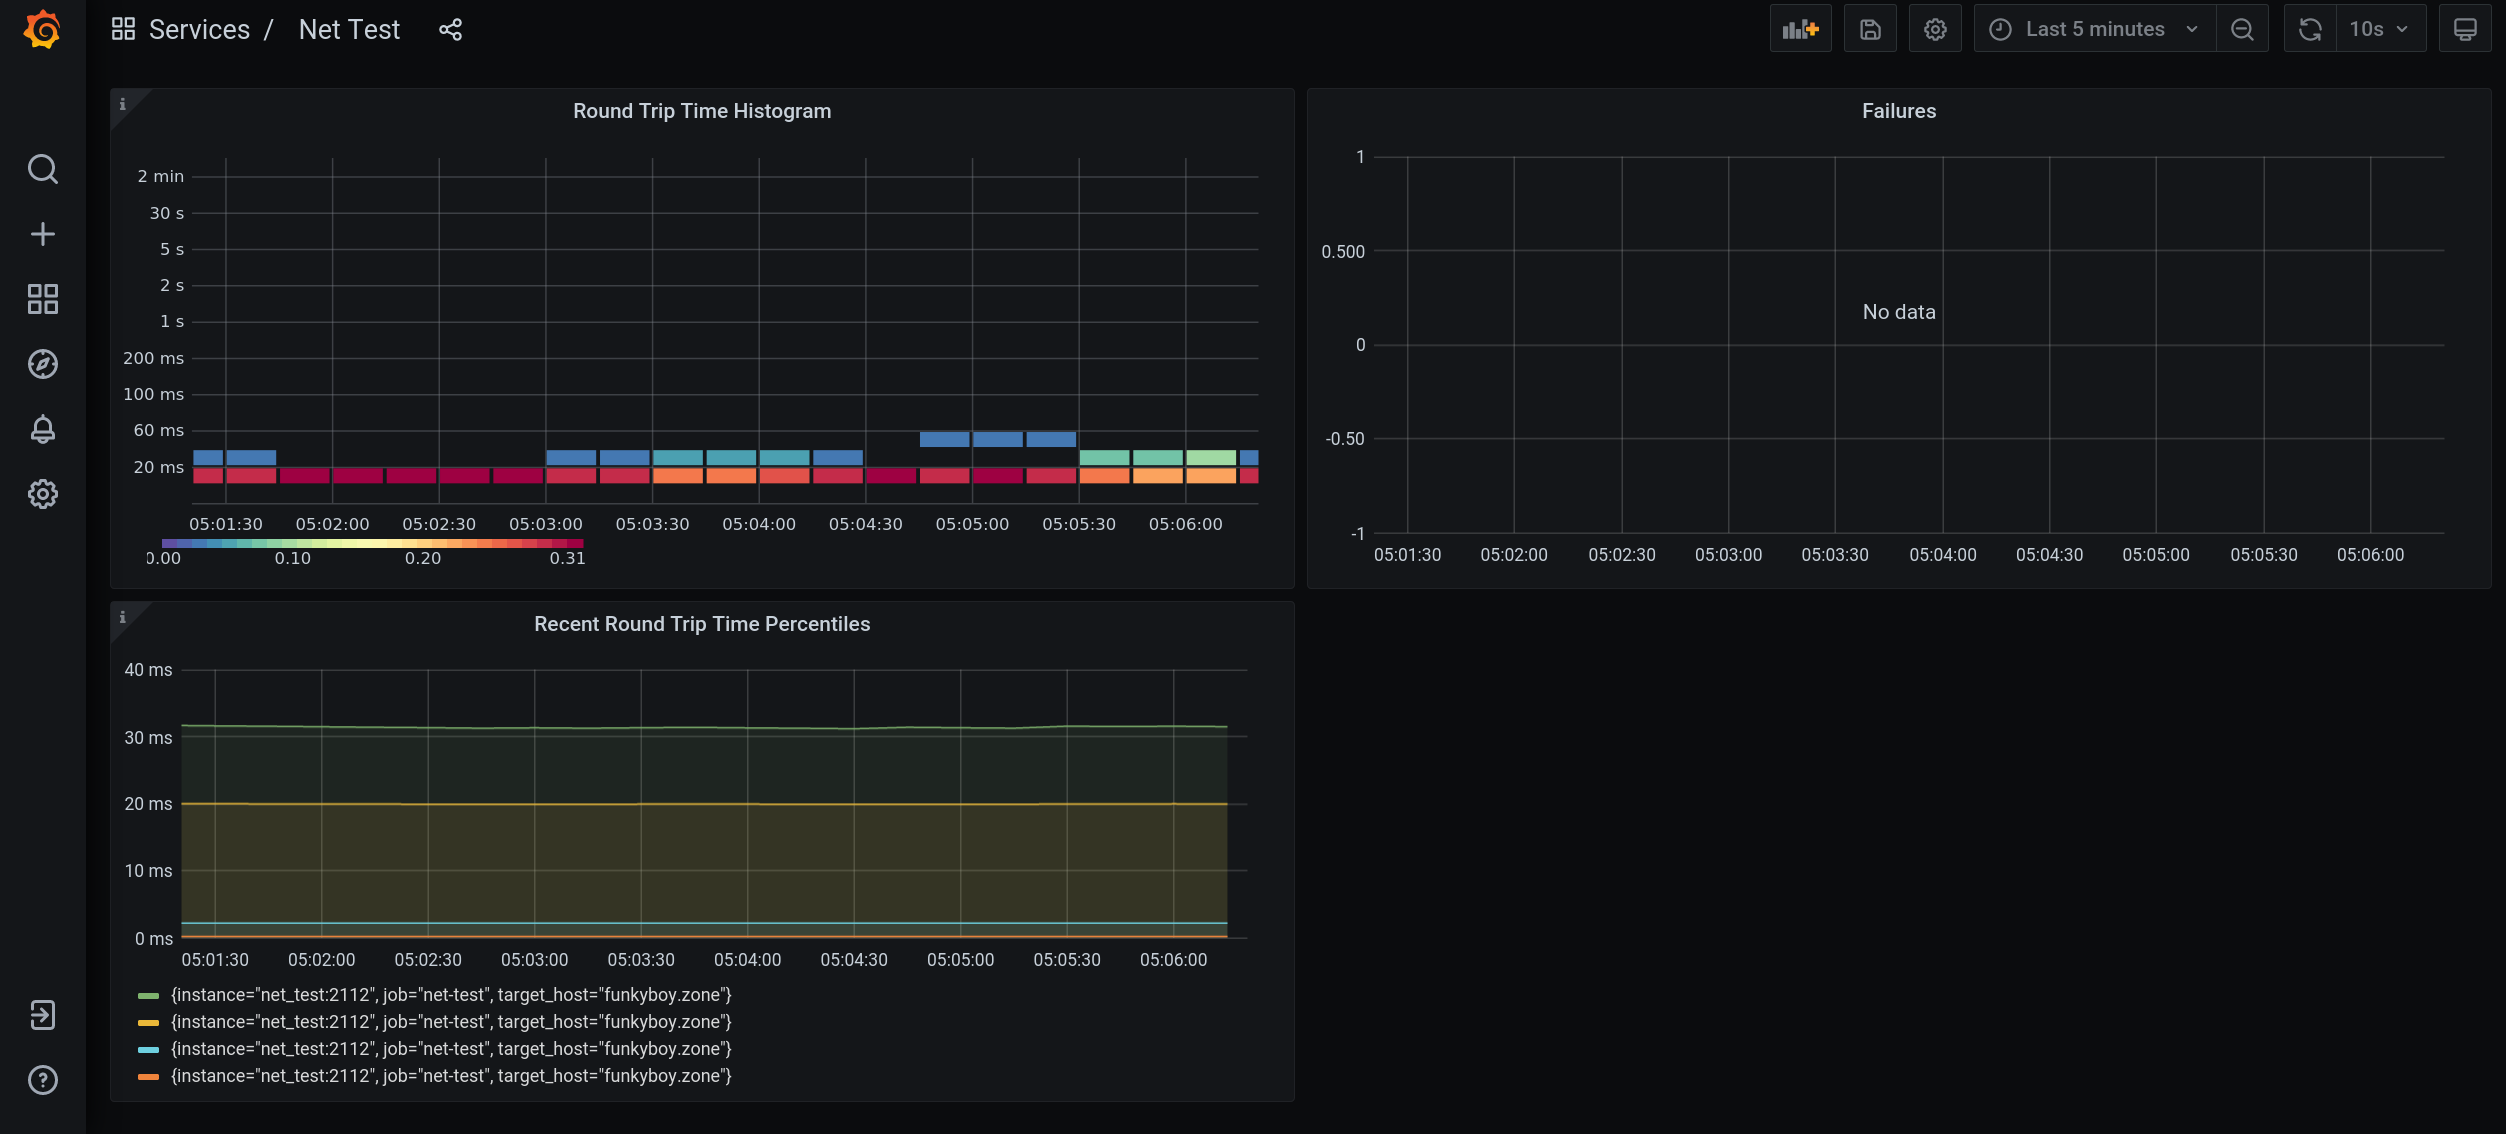
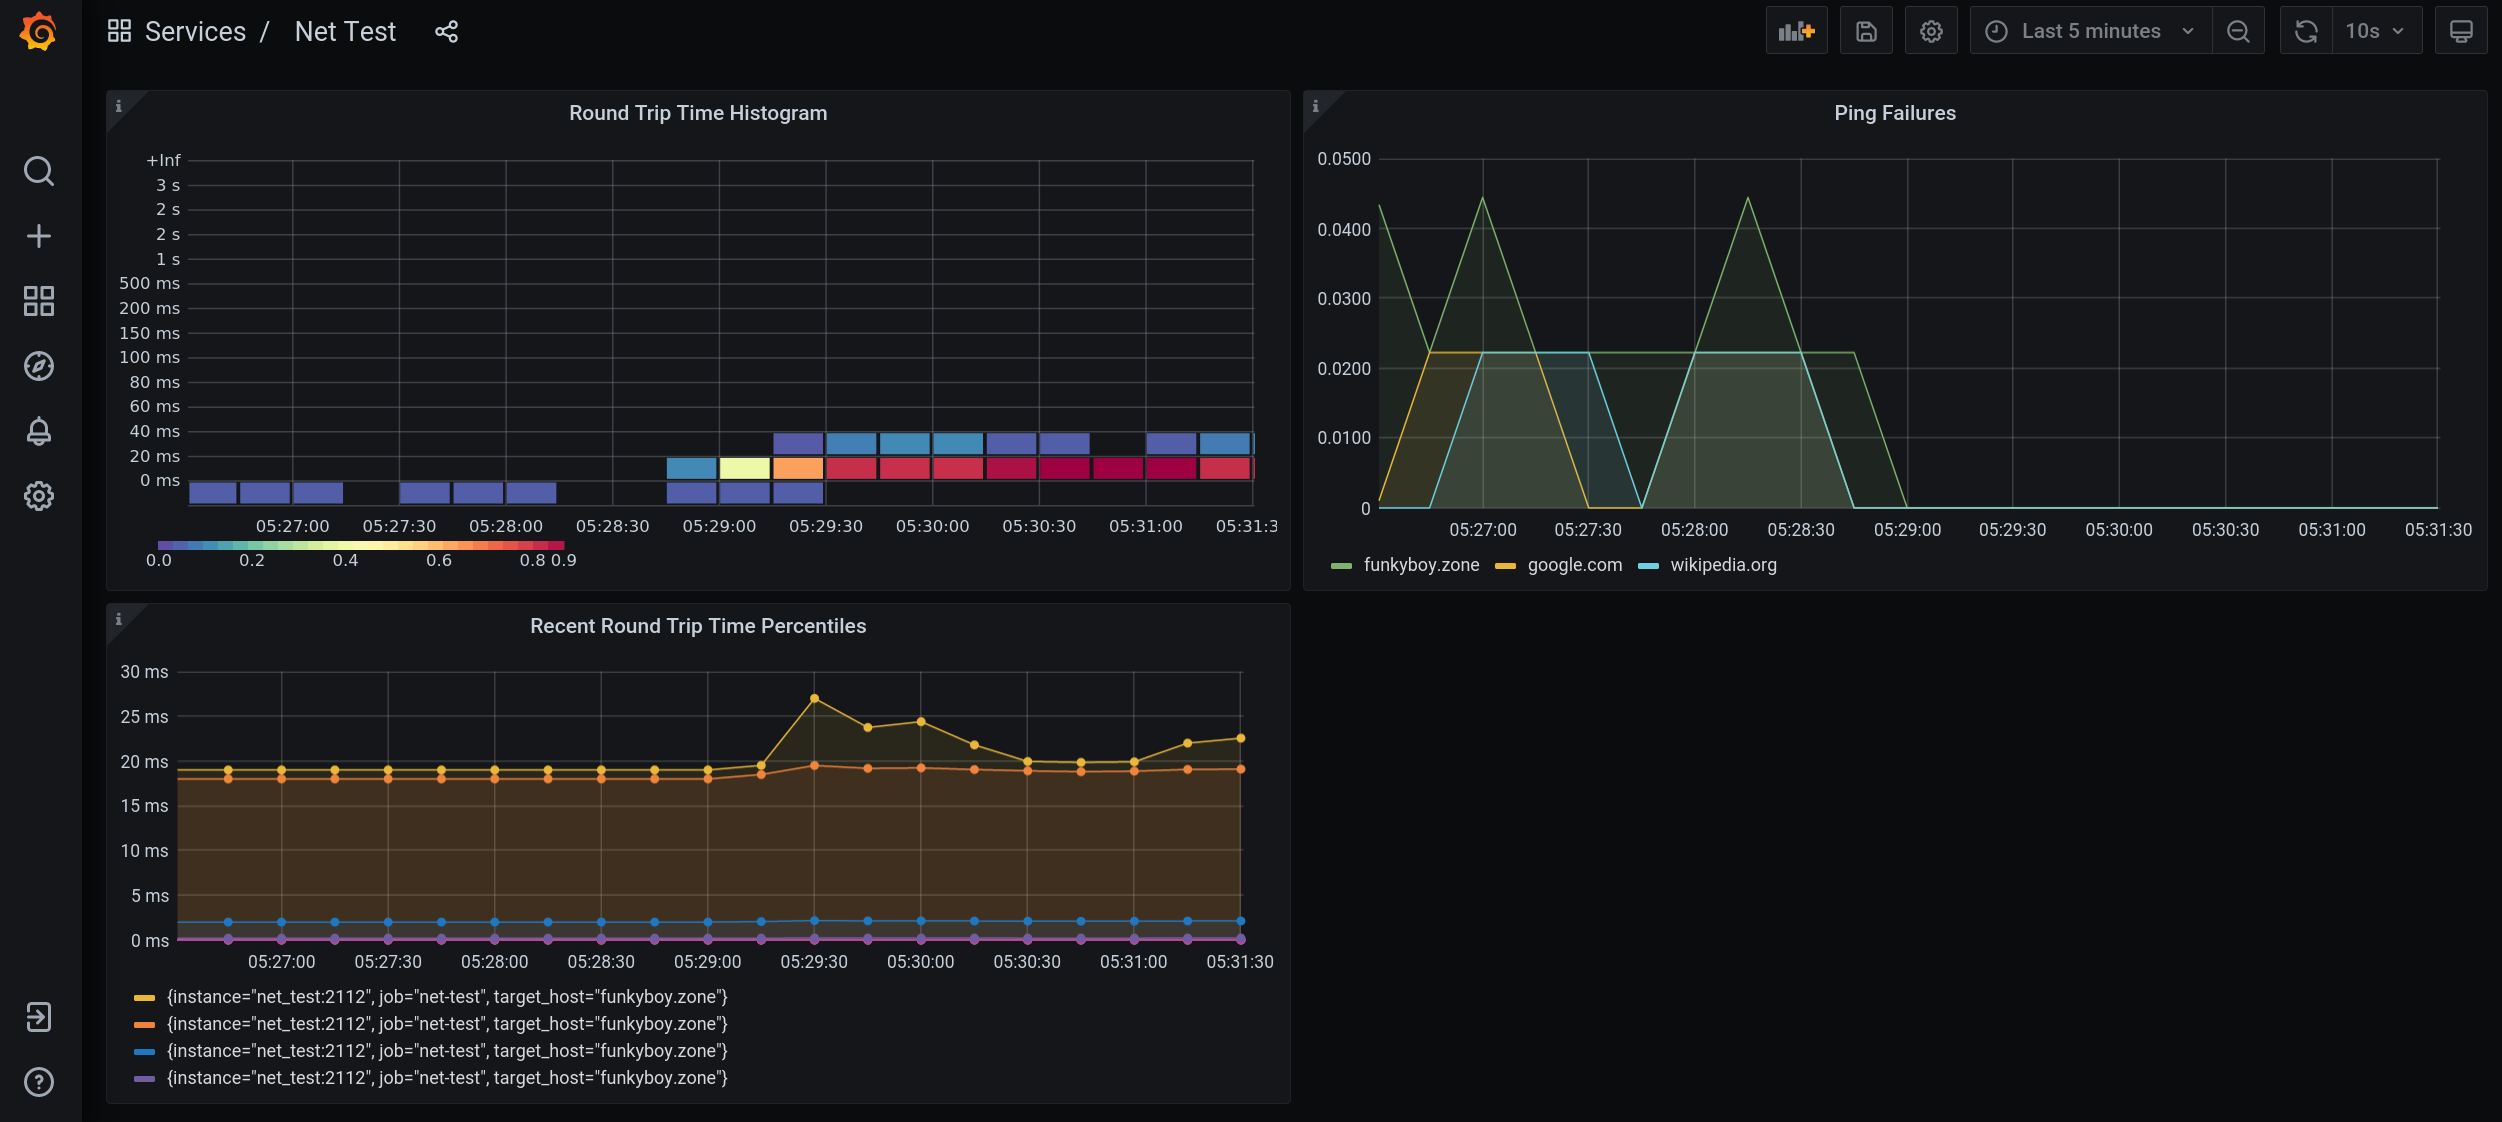
updated net-test and grafana dashboard to work under ping failure, max ping timeout 30s only 1 ping

diff --git a/main.go b/main.go
@@ -13,8 +13,13 @@ import (
 	"github.com/prometheus/client_golang/prometheus/promhttp"
 )
 
-const PING_COUNT int = 3
+// PING_COUNT is the number of ping packets sent to determine the average round trip time.
+const PING_COUNT int = 1
 
+// PING_TIMEOUT_MS is the number of milliseconds before a ping attempt will timeout. 30 seconds.
+const PING_TIMEOUT_MS int = 30000
+
+// log is the application logger.
 var log golog.Logger = golog.NewLogger("net-test")
 
 // die will print an error then exit the process with code 1
@@ -133,8 +138,7 @@ func main() {
 				Buckets: []float64{
 					0, 20, 40, 60, 80, 100,
 					150, 200, 500,
-					1000, 1500, 2000, 3000, 5000,
-					10000, 30000, 60000, 120000,
+					1000, 1500, 2000, 3000,
 				},
 			},
 			[]string{"target_host"},
@@ -156,10 +160,15 @@ func main() {
 				pingers := []*ping.Pinger{}
 				for _, host := range targetHosts.Get() {
 					pinger, err := ping.NewPinger(host)
-					check(fmt.Sprintf("failed to create pinger for \"%s\"", host), err)
+					if err != nil {
+						log.Warnf("failed to create pinger for \"%s\": %s", host, err.Error())
+						pingFailures.With(prom.Labels{
+							"target_host": pinger.Addr(),
+						}).Inc()
+					}
 					pinger.Count = PING_COUNT
 					pinger.SetPrivileged(true)
-					pinger.Timeout = time.Duration(120) * time.Second // 2 minute timeout
+					pinger.Timeout = time.Duration(PING_TIMEOUT_MS) * time.Millisecond
 
 					pingers = append(pingers, pinger)
 				}
